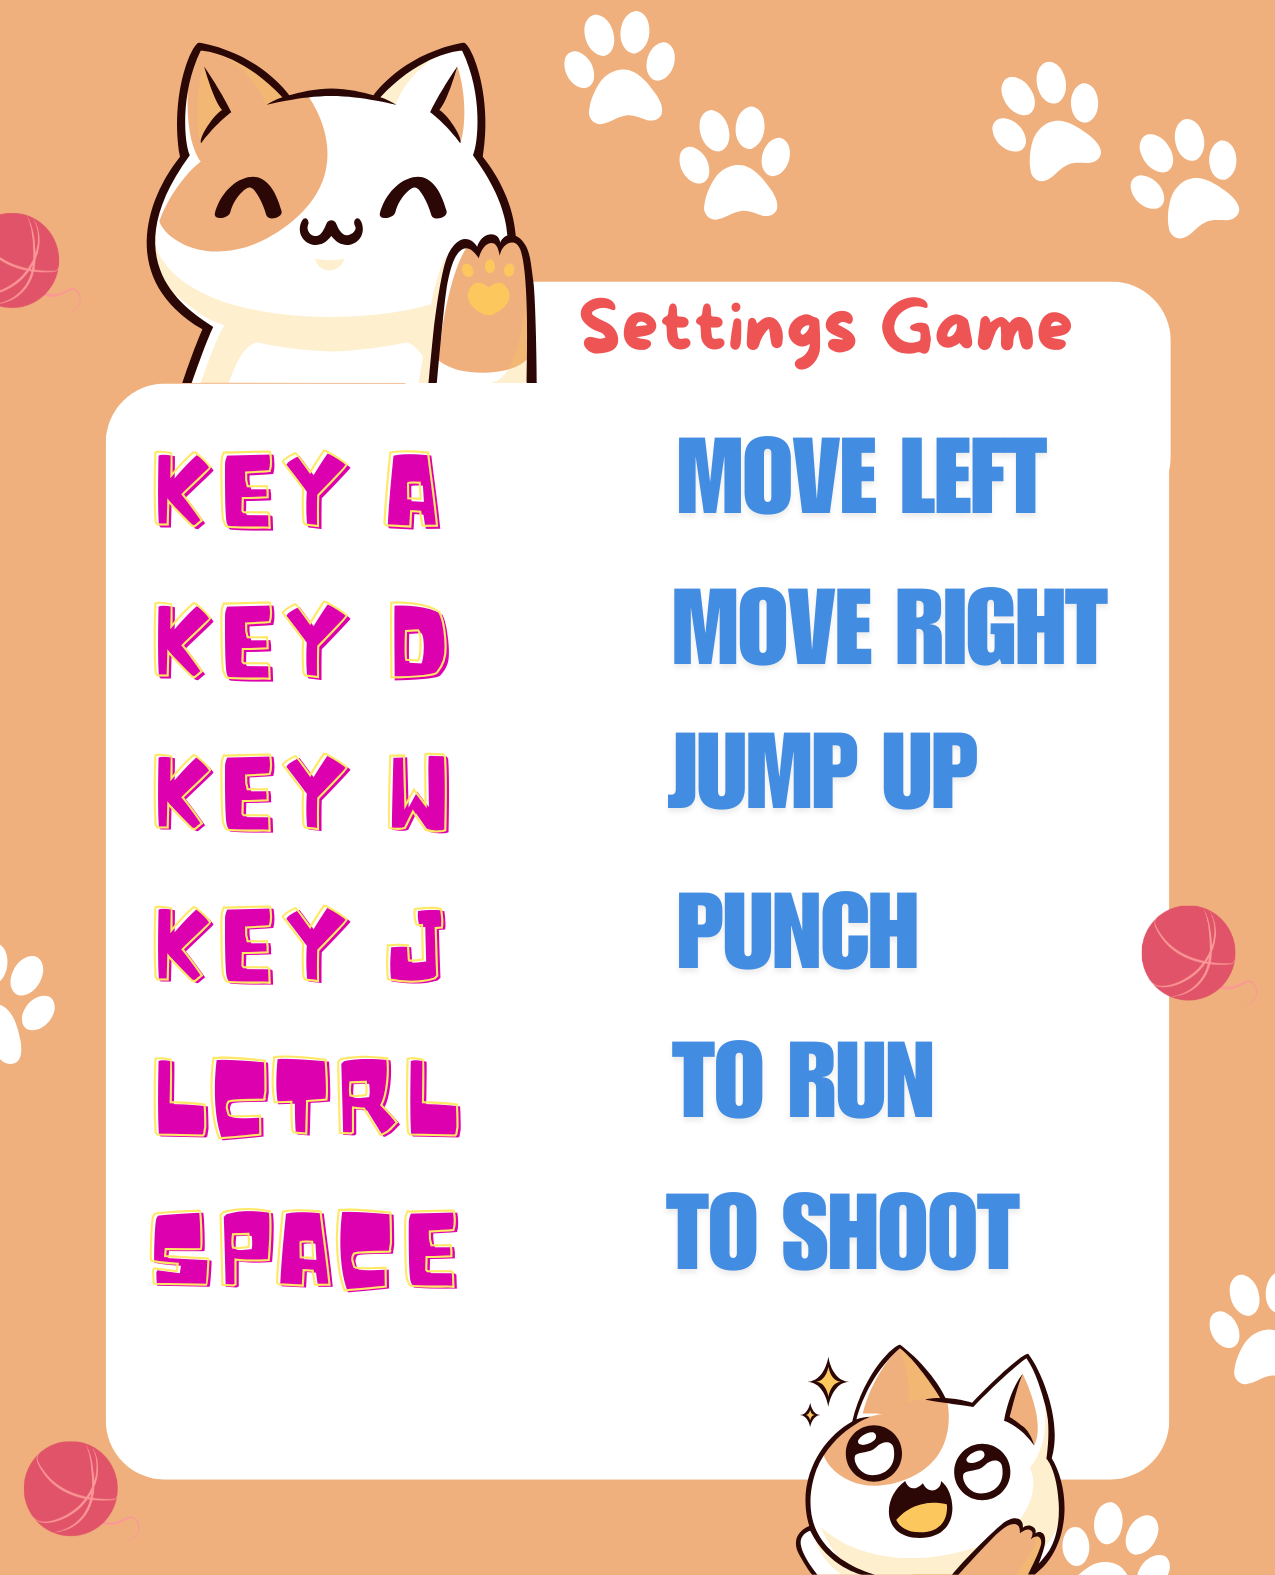
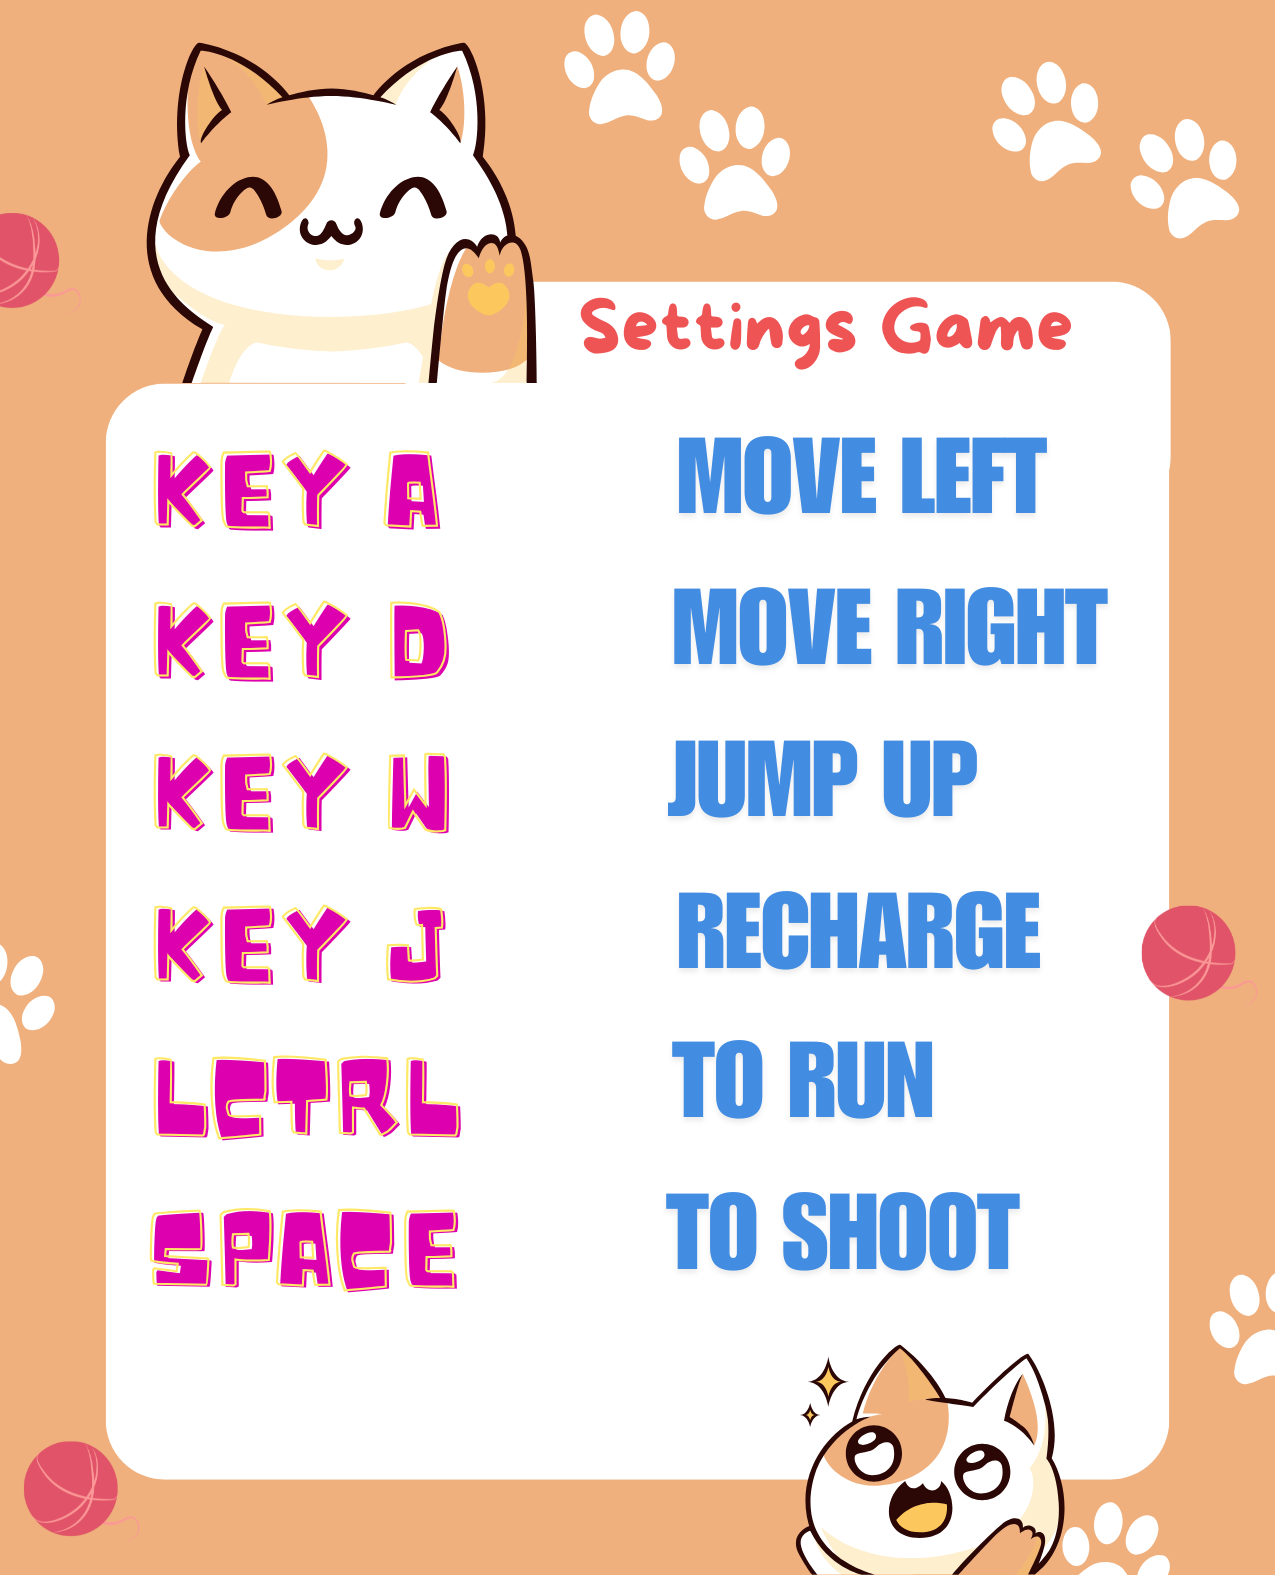
Done

diff --git a/main.py b/main.py
@@ -26,9 +26,9 @@ MAX_LEVELS = 5
 # Biến dùng để người chơi có thể nâng cấp
 speed_bullet = 0
 dame_bullet = 0
-health_bonus = 0
+health_bonus = 1500
 coin_player = 100000
-health_tile = 10
+health_tile = 100
 bullet_cooldown = 0
 # Biến dùng để chơi game
 main_game = False
@@ -173,7 +173,7 @@ level_complete_group = pygame.sprite.Group()
 class Player(pygame.sprite.Sprite):
     def __init__(self, x, y, scale):
         pygame.sprite.Sprite.__init__(self)
-        animation_types = ['Idle', 'Run', 'Jump', 'Hurt', 'Shot', 'Dead', 'Recharge', 'Walk', 'Punch']
+        animation_types = ['Idle', 'Run', 'Jump', 'Hurt', 'Shot', 'Dead', 'Recharge', 'Walk']
         self.update_time = pygame.time.get_ticks()
         self.action = 0
         self.scale = scale
@@ -206,7 +206,6 @@ class Player(pygame.sprite.Sprite):
         self.in_air = False
         self.hurt = False
         self.shoot = False
-        self.punch = False
         self.rechange = False
         self.vel_y = 0
         # Ảnh và vị trí của player
@@ -247,8 +246,7 @@ class Player(pygame.sprite.Sprite):
                 self.shoot = False
             elif self.action == 6: # Recharge
                 self.bullet = self.max_bullet
-                self.update_action(0)
-            elif self.action == 8: # Punch
+                self.rechange = False
                 self.update_action(0)
             else:
                 self.frame_index = 0
@@ -320,8 +318,6 @@ class Player(pygame.sprite.Sprite):
             self.collision_rect.x -= dx
             screen_scroll = -dx
 
-
-
         return screen_scroll
 
     def gun(self):
@@ -343,7 +339,6 @@ class Player(pygame.sprite.Sprite):
             self.shoot = False
             self.move_jump = False
             self.in_air = False
-            self.punch = False
             self.run = False
         else:
             if self.run:
@@ -360,18 +355,14 @@ class Player(pygame.sprite.Sprite):
                 self.moving_left = False
                 self.moving_right = False
                 self.move_jump = False
-                self.punch = False
                 self.run = False
                 self.hurt = False
             elif self.moving_left or self.moving_right:
                 self.update_action(7)
-            elif self.punch:
-                self.update_action(8)
             else:
                 self.update_action(0)
         if self.shoot_cooldown > 0:
             self.shoot_cooldown -= 1
-
     def draw(self):
         self.update_animation()
         self.update()
@@ -776,10 +767,16 @@ class Bigger(pygame.sprite.Sprite):
                     self.attack = True
                     if self.attack == True:
                         if self.dame_cooldown == 0:
-                            player.health -= 10
+                            player.health -= 25
                             print(player.health)
                             self.dame_cooldown = 100
                             punch.play()
+                            if player.direction == 1:
+                                    player.vel_y = -5
+                                    player.collision_rect.x -= 5
+                            else:
+                                player.vel_y = -5
+                                player.collision_rect.x += 5
                             if random.randint(1, 3) == 1:
                                 player.hurt = True
             else:
@@ -986,10 +983,16 @@ class Demon(pygame.sprite.Sprite):
                     self.attack = True
                     if self.attack == True:
                         if self.dame_cooldown == 0:
-                            player.health -= 10
+                            player.health -= 50
                             print(player.health)
                             self.dame_cooldown = 100
                             punch.play()
+                            if player.direction == 1:
+                                    player.vel_y = -5
+                                    player.collision_rect.x -= 20
+                            else:
+                                player.vel_y = -5
+                                player.collision_rect.x += 20
                             if random.randint(1, 3) == 1:
                                 player.hurt = True
             else:
@@ -1197,6 +1200,8 @@ class Boss(pygame.sprite.Sprite):
                             print(player.health)
                             self.dame_cooldown = 100
                             punch.play()
+                            player.vel_y = -20
+                            player.in_air = True
                             if random.randint(1, 3) == 1:
                                 player.hurt = True
             else:
@@ -1672,30 +1677,35 @@ def bullet_enemy(player):
             if bullet.rect.colliderect(skeleton.collision_rect):
                 if skeleton.health > 0:
                     skeleton.health -= player.dame + dame_bullet
-                    skeleton.hurt = True
+                    if random.randint(1, 3) == 1:
+                        skeleton.hurt = True
                     player.bullets.remove(bullet)
                     hurt.play()
         for bigger in bigger_group:
             if bullet.rect.colliderect(bigger.collision_rect):
                 if bigger.health > 0:
                     bigger.health -= player.dame + dame_bullet
-                    bigger.hurt = True
+                    if random.randint(1, 3) == 1:
+                        bigger.hurt = True
                     player.bullets.remove(bullet)
                     hurt.play()
         for demon in demon_group:
             if bullet.rect.colliderect(demon.collision_rect):
                 if demon.health > 0:
                     demon.health -= player.dame + dame_bullet
-                    demon.hurt = True
+                    if random.randint(1, 3) == 1:
+                        demon.hurt = True
                     player.bullets.remove(bullet)
                     hurt.play()
         for boss in boss_group:
             if bullet.rect.colliderect(boss.collision_rect):
                 if boss.health > 0:
-                    boss.health -= player.dame + dame_bullet
-                    boss.hurt = True
+                    boss.health -= 5
+                    if random.randint(1, 3) == 1:
+                        boss.hurt = True
                     player.bullets.remove(bullet)
                     hurt.play()
+
 
 def health_chart(player):
     number_tiles = player.health // health_tile
@@ -1842,7 +1852,7 @@ while running:
                             player.move_jump = True
                             jump.play()
                         if event.key == pygame.K_j:
-                            player.punch = True
+                            player.rechange = True
                         if event.key == pygame.K_LCTRL:
                             player.run = True
                         if event.key == pygame.K_SPACE and player.shoot_cooldown == 0 and player.bullet > 0:
@@ -1856,8 +1866,6 @@ while running:
                             player.moving_right = False
                         if event.key == pygame.K_w:
                             player.move_jump = False
-                        if event.key == pygame.K_j:
-                            player.punch = False
                         if event.key == pygame.K_LCTRL:
                             player.run = False
 
